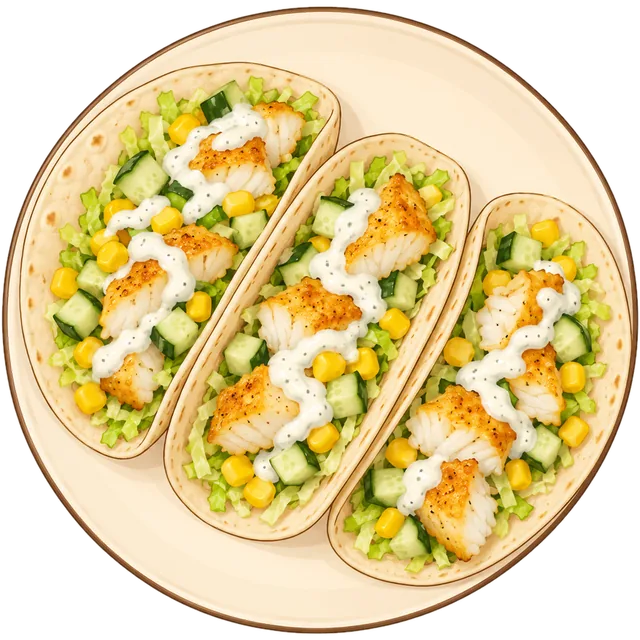
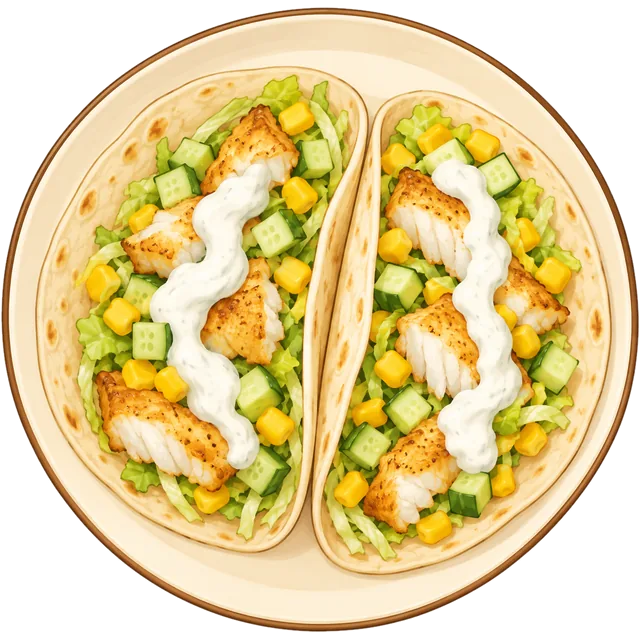
Runde 3: 4 billeder tegnet om efter reviewet (laks, frossen yoghurt, fisketacos, smash-burgere)

diff --git a/sw.js b/sw.js
@@ -9,7 +9,7 @@
    Svarer nettet ikke inden for HENT_MS (4 s), kommer en opskrift (også index.json) fra cachen, og nettets svar gemmes
    til næste gang. De næste LANGSOM_MS (30 s) tager opskrifterne cachen med det samme (code review U3 og F2, 23-10). */
 const PRAEFIKS = 'kog-';
-const INDHOLD = '4eaccab9cb573bec'; // sha256 (16 tegn) af FILER — sæt den værdi, test/test-sw.js viser i fejlbeskeden
+const INDHOLD = '3f88292fe4bf16a4'; // sha256 (16 tegn) af FILER — sæt den værdi, test/test-sw.js viser i fejlbeskeden
 const VERSION = PRAEFIKS + INDHOLD;
 const LYD = '74203173dd2ca3fc'; // sha256 (16 tegn) af lydfilerne (lyd/*/*.mp3) — sæt den værdi, test/test-sw.js viser
 const LYD_CACHE = PRAEFIKS + 'lyd-' + LYD;

diff --git a/js/version.js b/js/version.js
@@ -4,4 +4,4 @@
 // UDGAVE_INDHOLD er filernes fingeraftryk for nummeret. test/test-version.js fejler, når en fil ændres uden et nyt
 // nummer, og skriver de to nye linjer i fejlbeskeden.
 export const UDGAVE = 'v3 · 31-10-2026';
-export const UDGAVE_INDHOLD = 'v3:534d4e9ba001c108';
+export const UDGAVE_INDHOLD = 'v3:023f1690c8e02e9c';

diff --git a/STATUS.md b/STATUS.md
@@ -7,7 +7,7 @@ Jimmy 31-10: «kører du bare hele lortet helt færdigt til i morgen» (kødkål
 - **Nye retter:** kødkål med makaroni, jægergryde med pasta, cremet fiskesuppe med majs, cremet ostris med ærter, fisketacos med majs, foldet fladbrød med ost, gul ris med laks, ærter og æg, koteletter med æble, kylling med bønner og spinat, kyllingetærte med butterdej, laks med sprød rasp, smash-burgere med ost, sprød kylling i rasp (aftensmad, sidst i README-rækkefølge, med i ugeplanen) og frossen yoghurt med bær (søde sager). Egne mængder; ingen er lavet i et rigtigt køkken.
 - **Commits:** a8bb492 (de 14 skrevet), 2abced8 (rettelser efter review af retterne, 18 filer), 01ffdeb (flyttet ind med Codex-billeder, tjekket på et kontaktark). «Fuldkornstortillas» har fået en blød bindestreg (e2e fandt den på smal skærm).
 - **Test:** node-tests 8 af 9 grønne (`test-lyd` rød: 1.504 af 2.927 replikker mangler Røst-lyd, før 1.043 af 2.466, plus de 3 forældreløse mp3). e2e i WebKit: `hele`, `former`, `lyn` og `ugeplan` grønne.
-- **Mangler:** 4 billeder tegnes om af Codex (planlagt 01-11 kl. 05:20, når Codex-grænsen nulstilles), fordi de blev tegnet efter beskrivelserne før reviewet: laks (mos med ærter, ikke broccoli), frossen yoghurt (kun blåbær), fisketacos (2, ikke 3) og smash-burgere (fuldkornsboller).
+- **4 billeder tegnet om** af Codex 01-11 kl. 05:20-05:23, fordi de første var tegnet efter beskrivelserne før reviewet: laks (mos med ærter, ikke broccoli), frossen yoghurt (kun blåbær), fisketacos (2, ikke 3) og smash-burgere (fuldkornsboller). Tjekket på et kontaktark af Saga.
 
 **Afventer Jimmy:**
 - (01-11) Smag på listen over de 14 retter. Skal de 13 aftensretter stå i README-rækkefølge eller alfabetisk i `opskrifter/index.json`?
